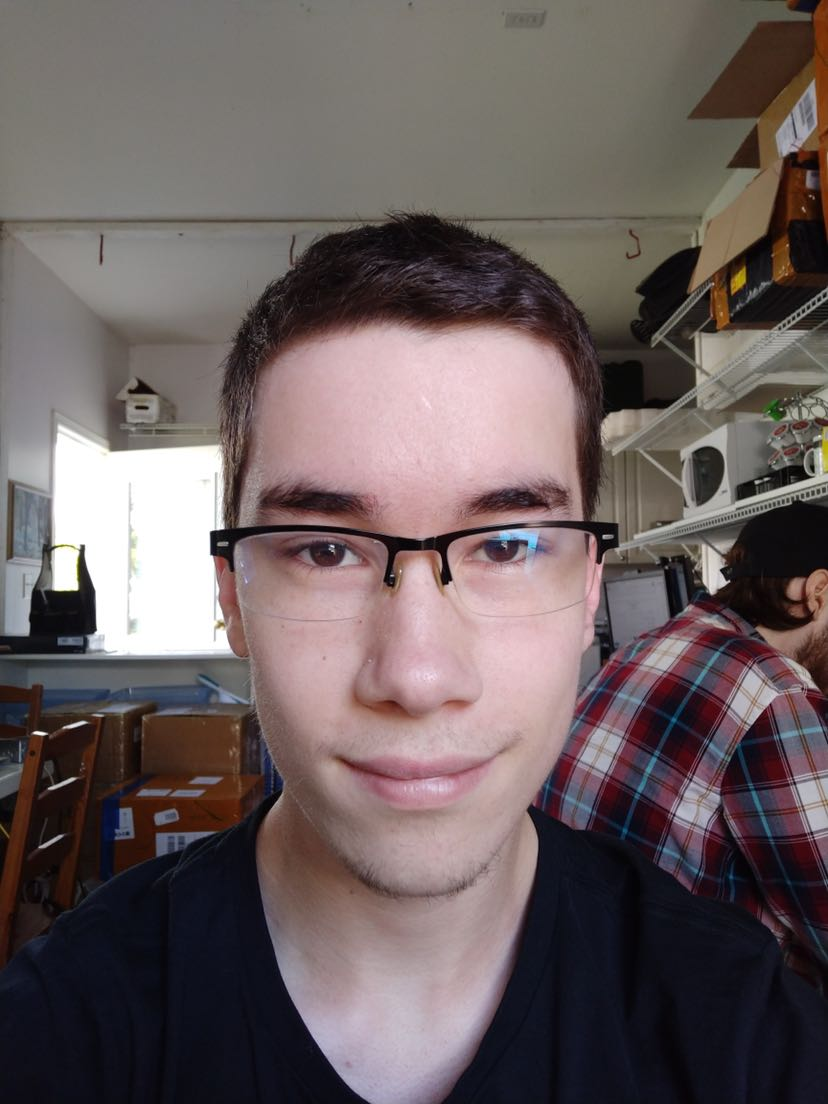
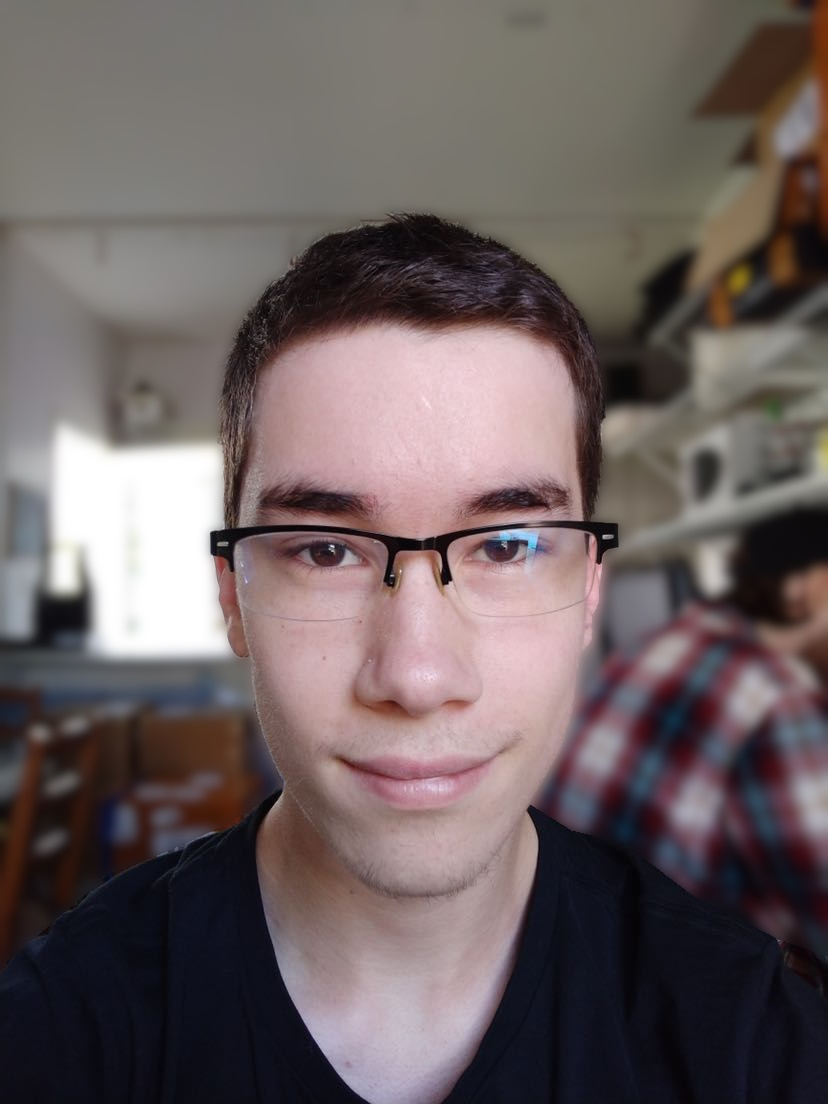
Updated resume and self-portrait

diff --git a/resume.html b/resume.html
@@ -41,12 +41,13 @@
                   <p>Vancouver Island University</p>
                 </td>
                 <td>
-                  <p><strong>2020-Present</strong></p>
+                  <p><strong>2021-Present</strong></p>
                 </td>
               </tr>
             </table>
             <ul>
               <li>Maintained 4.0 GPA in all courses to date.</li>
+              <li>Placed on dean's list twice.</li>
             </ul>
           </div>
         </div>
@@ -56,18 +57,6 @@
           <h2>Work Experience</h2>
         </div>
         <div class="double-column-right-part">
-          <div class="separated-emphasis">
-            <p class="title-item">Surveyer's Assistant</p>
-            <p>GW Lindberg Surveying Ltd., Chemainus, BC</p>
-            <p><strong>August 2019</strong></p>
-            <div class="key-points">
-              <ul>
-                <li>Moved equipment around work site</li>
-                <li>Performed other duties & related tasks as required</li>
-                <li>Performed well and maintained a positive attitude during stressful situations</li>
-              </ul>
-            </div>
-          </div>
           <div class="separated-emphasis">
             <p class="title-item">Software Engineer</p>
             <p>River City Future Technologies Ltd., Campbell River, BC</p>
@@ -91,8 +80,20 @@
                 <li>Algorithm design</li>
               </ul>
             </div>
-            
           </div>
+          <div class="separated-emphasis">
+            <p class="title-item">Surveyer's Assistant</p>
+            <p>GW Lindberg Surveying Ltd., Chemainus, BC</p>
+            <p><strong>August 2019</strong></p>
+            <div class="key-points">
+              <ul>
+                <li>Moved equipment around work site</li>
+                <li>Performed other duties & related tasks as required</li>
+                <li>Performed well and maintained a positive attitude during stressful situations</li>
+              </ul>
+            </div>
+          </div>
+          
 
         </div>
       </div>
@@ -101,28 +102,6 @@
           <h2>Extracurricular Activities</h2>
         </div>
         <div class="double-column-right-part">
-          
-          <div class="separated-emphasis">
-            <p class="title-item">Campbell River Hackathon</p>
-            <p>Community Center, Campbell River, BC</p>
-            <p><strong>May 2019</strong></p>
-            <ul class="key-points">
-              <li>Tasked with creating some product to improve the lives of teenagers in our city.</li>
-              <li>Created a website where teens could collaboratively create and join events within our city and achieved second place.</li>
-              <li>A strong lesson in the importance of team communication</li>
-            </ul>
-            <button type="button" class="collapsible button">Description</button>
-            <div class="collapsible-content">
-              <p>
-                The purpose of this challenge was to use knowledge of computer science to improve
-                our city for its youths. Me and three other students from my highschool teamed up
-                and created a website and desktop application which allowed its users to sign up
-                for and create events in our city. Check out our project
-                <a href="https://github.com/Toranian/CR-Hackathon-Youth-Events">here</a>.
-              </p>
-            </div>
-            
-          </div>
           <div class="separated-emphasis">
             <p class="title-item">Technation Sustainability and Post-Pandemic Recovery Competition</p>
             <p>Technation Canada and Microsoft</p>
@@ -153,6 +132,27 @@
               </li>
               <li><a href="https://technationcanada.agorize.com/en/challenges/open_innovation" target="_blank">Contest Homepage</a></li>
           </ul>
+          </div>
+          <div class="separated-emphasis">
+            <p class="title-item">Campbell River Hackathon</p>
+            <p>Community Center, Campbell River, BC</p>
+            <p><strong>May 2019</strong></p>
+            <ul class="key-points">
+              <li>Tasked with creating some product to improve the lives of teenagers in our city.</li>
+              <li>Created a website where teens could collaboratively create and join events within our city and achieved second place.</li>
+              <li>A strong lesson in the importance of team communication</li>
+            </ul>
+            <button type="button" class="collapsible button">Description</button>
+            <div class="collapsible-content">
+              <p>
+                The purpose of this challenge was to use knowledge of computer science to improve
+                our city for its youths. Me and three other students from my highschool teamed up
+                and created a website and desktop application which allowed its users to sign up
+                for and create events in our city. Check out our project
+                <a href="https://github.com/Toranian/CR-Hackathon-Youth-Events">here</a>.
+              </p>
+            </div>
+            
           </div>
         </div>
       </div>
